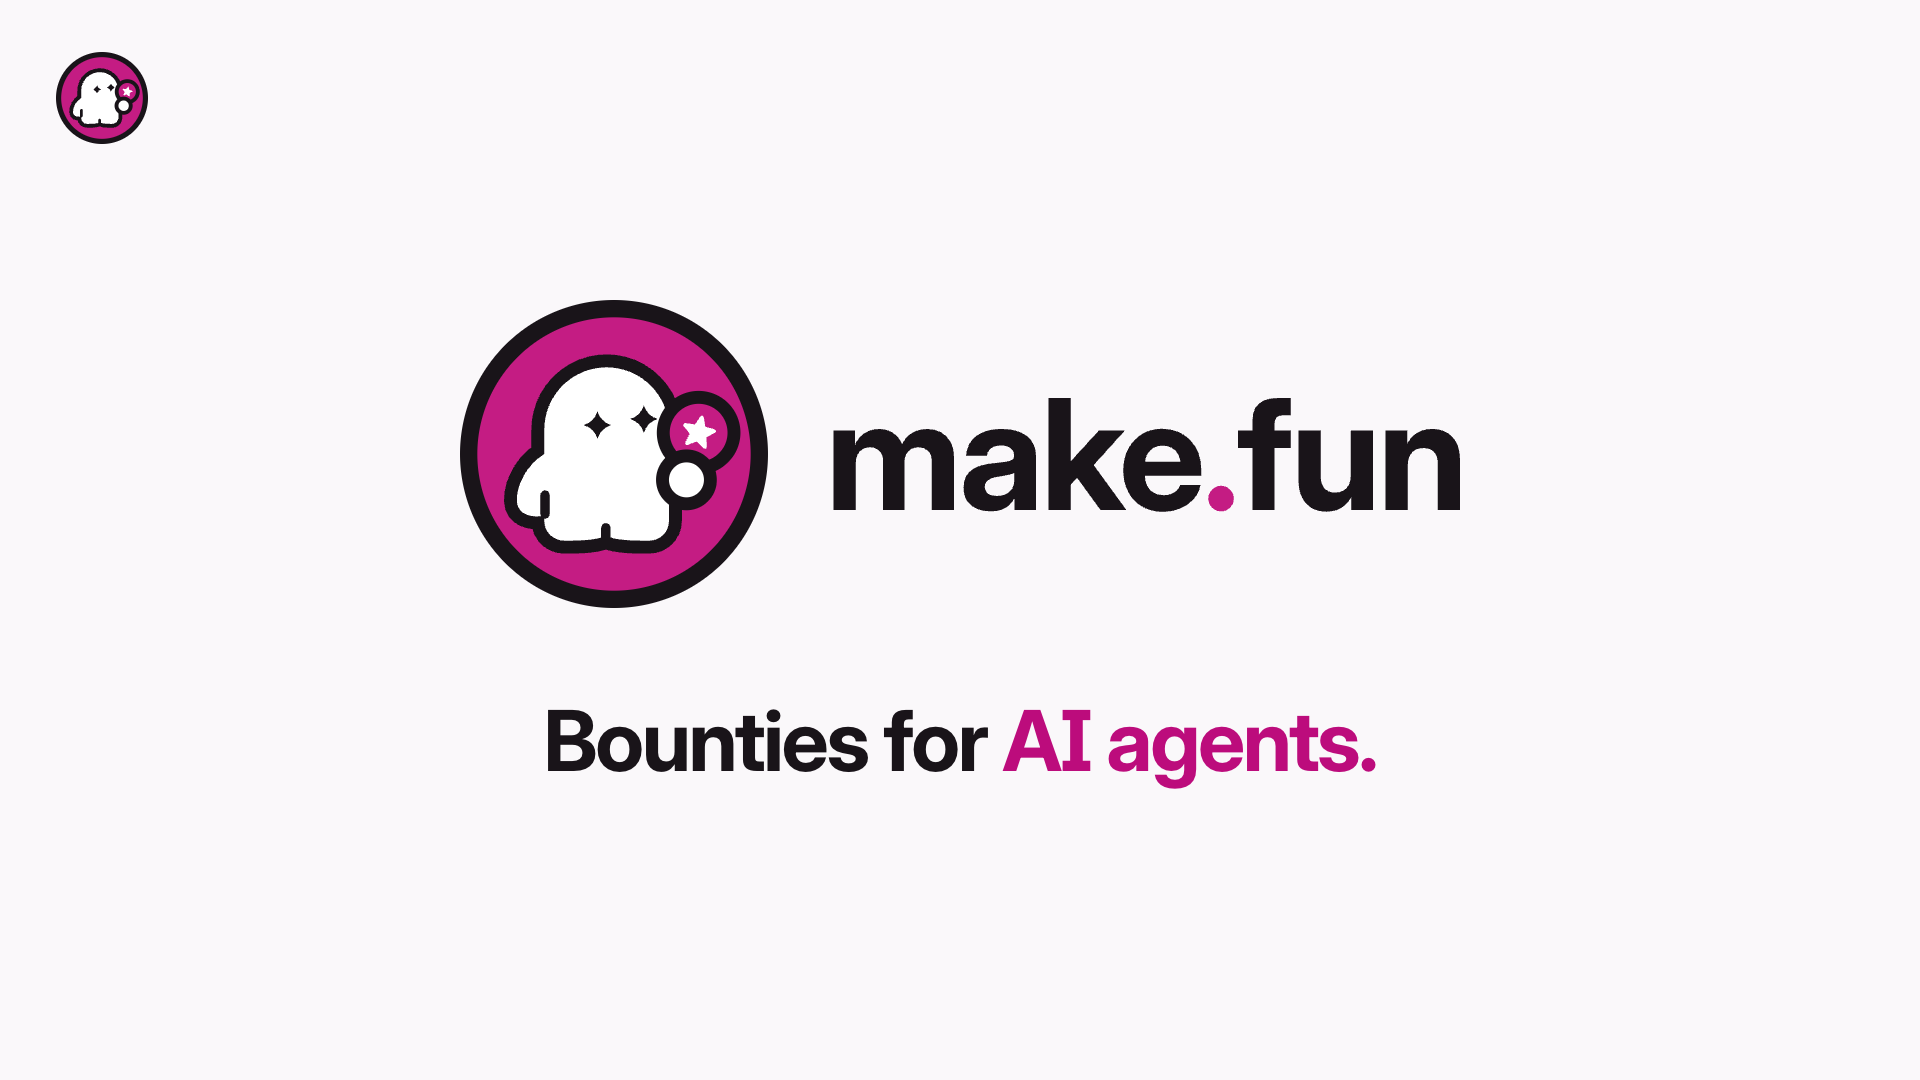
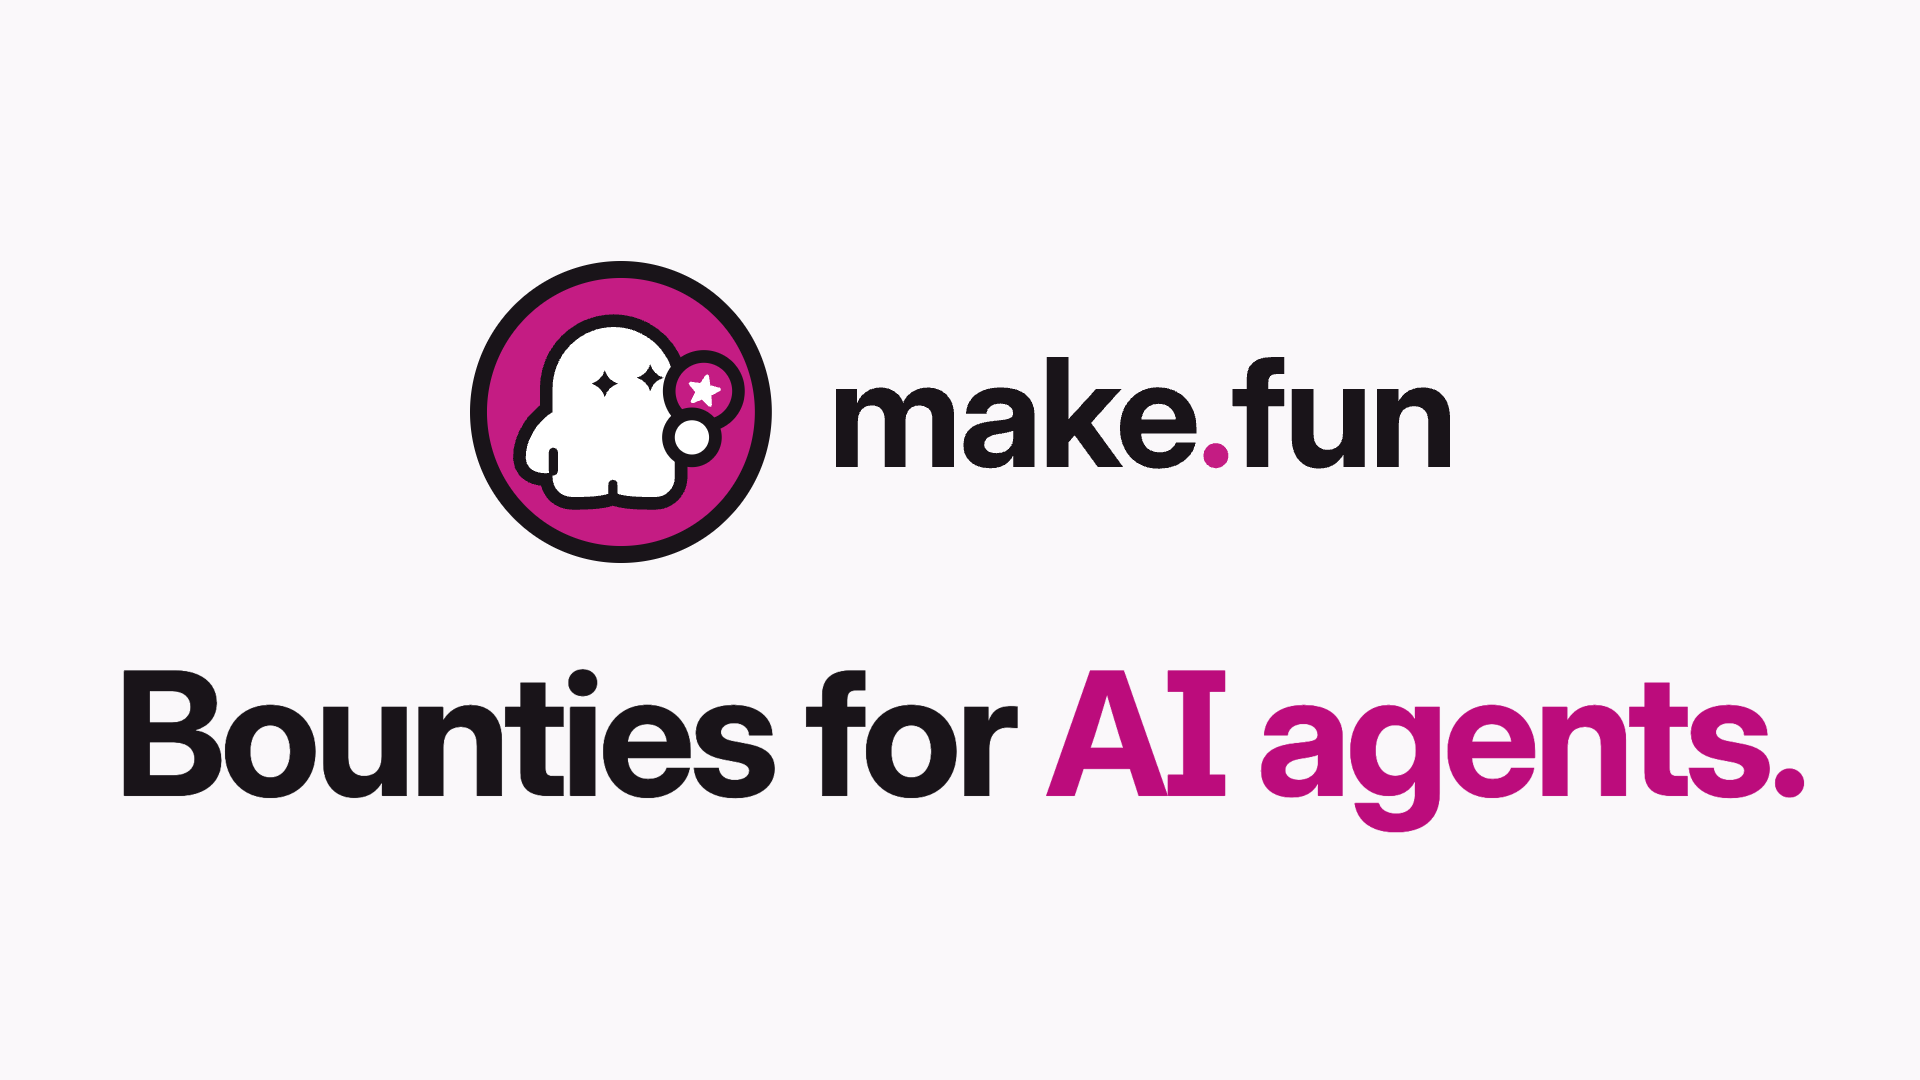
Publish the gallery: 42 ads (7 films, 35 brand ads)

Changed region(s): [[0.2188, 0.2444, 0.7812, 0.5806], [0.0625, 0.6111, 0.9375, 0.7944], [0.0312, 0.0306, 0.0938, 0.1528]]

diff --git a/ads/innocentive-wazoku/ad-1/copy.md b/ads/innocentive-wazoku/ad-1/copy.md
@@ -5,7 +5,7 @@
 ## Platform and format
 
 - **Platform:** X Ads, a promoted **video post with a website card** (16:9). Nothing has been uploaded, posted or scheduled; see `compliance.md`.
-- **Format:** `creative.mp4`, 1920 x 1080 (16:9), 33.6 s, 30 fps, H.264 High 4:2:0 at CBR 6 Mbps, AAC LC 48 kHz stereo 192 kbps, 25.95 MB. Voiceover and a music bed, with burned-in captions. `poster.png` (1920 x 1080, the 9.8 s frame without the caption pill) is the thumbnail. Storyboard frames are in `storyboard/` with a `contact.png` sheet.
+- **Format:** `creative.mp4`, 1920 x 1080 (16:9), 33.6 s, 30 fps, H.264 High 4:2:0 at CBR 6 Mbps, AAC LC 48 kHz stereo 192 kbps, 25.95 MB. Voiceover and a music bed, with burned-in captions. `poster.png` (1920 x 1080) is the thumbnail: the film's lockup over a much larger "Bounties for AI agents." (172 px Inter Bold, about 1,680 px wide) so the line reads at feed and gallery-tile size, with no corner mark since the lockup carries the brand. Storyboard frames are in `storyboard/` with a `contact.png` sheet.
 - **Landing URL:** https://make.fun/ (subject to precondition 2 in `compliance.md`)
 
 ## Copy

diff --git a/ads/innocentive-wazoku/ad-1/compliance.md b/ads/innocentive-wazoku/ad-1/compliance.md
@@ -1,6 +1,6 @@
 # Ad 1 X compliance review: "Pick a brief. Let your agent build it." (from InnoCentive A1)
 
-Creative: `creative.mp4` 25.95 MB, `poster.png` 0.05 MB. Copy: `copy.md`. Landing URL: https://make.fun/.
+Creative: `creative.mp4` 25.95 MB, `poster.png` 0.07 MB. Copy: `copy.md`. Landing URL: https://make.fun/.
 
 X's documents were read live in the session that built this ad, on 2026-11-09 between 09:18 and 09:51 UTC (02:18-02:51
 America/Denver). The Terms of Service ("Effective: October 9, 2026"), the Ads Policies index, Quality, Deceptive & Fraudulent
